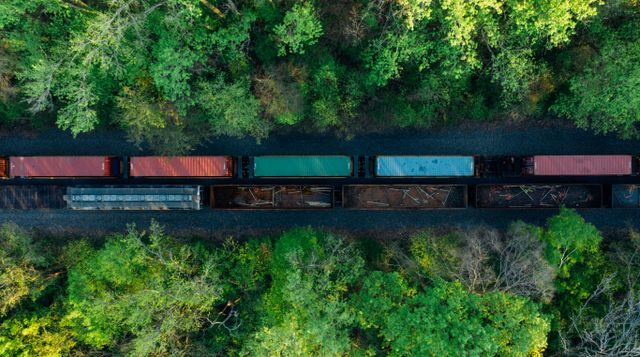
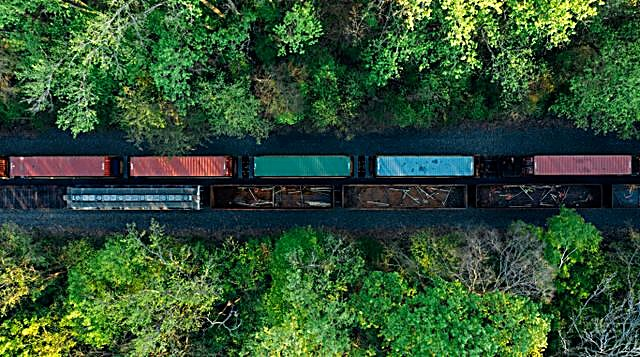
fix: 철송 사진 선명도 보정 (언샤프마스크 적용) — 원본 해상도 한계는 존재

diff --git a/ceo.html b/ceo.html
@@ -28,7 +28,7 @@
   <meta name="twitter:title" content="대표 인사말 - (주)태인종합물류" />
   <meta name="twitter:description" content="(주)태인종합물류 대표 인사말. 30년간 축적한 물류 노하우와 신뢰를 바탕으로 고객의 성공을 함께 만들어가는 종합물류 파트너입니다." />
   <meta name="twitter:image" content="https://www.taein.io.kr/assets/og-image.jpg" />
-  <link rel="stylesheet" href="style.css?v=80" />
+  <link rel="stylesheet" href="style.css?v=81" />
   <link rel="preconnect" href="https://fonts.googleapis.com" />
   <link rel="preconnect" href="https://fonts.gstatic.com" crossorigin />
   <link rel="stylesheet" as="style" crossorigin href="https://cdn.jsdelivr.net/gh/orioncactus/pretendard@v1.3.9/dist/web/static/pretendard-dynamic-subset.min.css" />

diff --git a/sea-transport.html b/sea-transport.html
@@ -28,7 +28,7 @@
   <meta name="twitter:title" content="해상운송 - (주)태인종합물류" />
   <meta name="twitter:description" content="(주)태인종합물류 해상운송 서비스. FCL·LCL 컨테이너 운송, 전 세계 주요 항구 네트워크, 최적 스케줄과 경쟁력 있는 운임을 제공합니다." />
   <meta name="twitter:image" content="https://www.taein.io.kr/assets/og-image.jpg" />
-  <link rel="stylesheet" href="style.css?v=80" />
+  <link rel="stylesheet" href="style.css?v=81" />
   <link rel="preconnect" href="https://fonts.googleapis.com" />
   <link rel="preconnect" href="https://fonts.gstatic.com" crossorigin />
   <link rel="stylesheet" as="style" crossorigin href="https://cdn.jsdelivr.net/gh/orioncactus/pretendard@v1.3.9/dist/web/static/pretendard-dynamic-subset.min.css" />

diff --git a/air-transport.html b/air-transport.html
@@ -28,7 +28,7 @@
   <meta name="twitter:title" content="항공운송 - (주)태인종합물류" />
   <meta name="twitter:description" content="(주)태인종합물류 항공운송 서비스. 일반 항공화물부터 긴급·특수화물까지 신속하고 안전한 글로벌 항공 물류를 지원합니다." />
   <meta name="twitter:image" content="https://www.taein.io.kr/assets/og-image.jpg" />
-  <link rel="stylesheet" href="style.css?v=80" />
+  <link rel="stylesheet" href="style.css?v=81" />
   <link rel="preconnect" href="https://fonts.googleapis.com" />
   <link rel="preconnect" href="https://fonts.gstatic.com" crossorigin />
   <link rel="stylesheet" as="style" crossorigin href="https://cdn.jsdelivr.net/gh/orioncactus/pretendard@v1.3.9/dist/web/static/pretendard-dynamic-subset.min.css" />

diff --git a/land-transport.html b/land-transport.html
@@ -28,7 +28,7 @@
   <meta name="twitter:title" content="육상운송 - (주)태인종합물류" />
   <meta name="twitter:description" content="(주)태인종합물류 육상운송 서비스. 전국 배송 네트워크와 컨테이너 내륙운송으로 안전하고 정확한 국내 물류를 책임집니다." />
   <meta name="twitter:image" content="https://www.taein.io.kr/assets/og-image.jpg" />
-  <link rel="stylesheet" href="style.css?v=80" />
+  <link rel="stylesheet" href="style.css?v=81" />
   <link rel="preconnect" href="https://fonts.googleapis.com" />
   <link rel="preconnect" href="https://fonts.gstatic.com" crossorigin />
   <link rel="stylesheet" as="style" crossorigin href="https://cdn.jsdelivr.net/gh/orioncactus/pretendard@v1.3.9/dist/web/static/pretendard-dynamic-subset.min.css" />

diff --git a/services.html b/services.html
@@ -28,7 +28,7 @@
   <meta name="twitter:title" content="서비스 안내 - (주)태인종합물류" />
   <meta name="twitter:description" content="(주)태인종합물류 서비스 안내. 해상운송(FCL·LCL), 항공운송, 통관, 육상운송, 3PL 물류 솔루션까지 원스톱으로 제공합니다." />
   <meta name="twitter:image" content="https://www.taein.io.kr/assets/og-image.jpg" />
-  <link rel="stylesheet" href="style.css?v=80" />
+  <link rel="stylesheet" href="style.css?v=81" />
   <link rel="preconnect" href="https://fonts.googleapis.com" />
   <link rel="preconnect" href="https://fonts.gstatic.com" crossorigin />
   <link rel="stylesheet" as="style" crossorigin href="https://cdn.jsdelivr.net/gh/orioncactus/pretendard@v1.3.9/dist/web/static/pretendard-dynamic-subset.min.css" />

diff --git a/customs.html b/customs.html
@@ -28,7 +28,7 @@
   <meta name="twitter:title" content="통관 및 포워딩 - (주)태인종합물류" />
   <meta name="twitter:description" content="(주)태인종합물류 통관·포워딩 서비스. 수출입 통관 대행, 관세 컨설팅, FTA 원산지 관리까지 전문 인력이 처리합니다." />
   <meta name="twitter:image" content="https://www.taein.io.kr/assets/og-image.jpg" />
-  <link rel="stylesheet" href="style.css?v=80" />
+  <link rel="stylesheet" href="style.css?v=81" />
   <link rel="preconnect" href="https://fonts.googleapis.com" />
   <link rel="preconnect" href="https://fonts.gstatic.com" crossorigin />
   <link rel="stylesheet" as="style" crossorigin href="https://cdn.jsdelivr.net/gh/orioncactus/pretendard@v1.3.9/dist/web/static/pretendard-dynamic-subset.min.css" />

diff --git a/network.html b/network.html
@@ -28,7 +28,7 @@
   <meta name="twitter:title" content="글로벌 네트워크 - (주)태인종합물류" />
   <meta name="twitter:description" content="(주)태인종합물류 글로벌 네트워크. 150개국 파트너망을 통해 전 세계 어디로든 안정적인 물류 서비스를 제공합니다." />
   <meta name="twitter:image" content="https://www.taein.io.kr/assets/og-image.jpg" />
-  <link rel="stylesheet" href="style.css?v=80" />
+  <link rel="stylesheet" href="style.css?v=81" />
   <link rel="preconnect" href="https://fonts.googleapis.com" />
   <link rel="preconnect" href="https://fonts.gstatic.com" crossorigin />
   <link rel="stylesheet" as="style" crossorigin href="https://cdn.jsdelivr.net/gh/orioncactus/pretendard@v1.3.9/dist/web/static/pretendard-dynamic-subset.min.css" />

diff --git a/faq.html b/faq.html
@@ -28,7 +28,7 @@
   <meta name="twitter:title" content="자주 묻는 질문 - (주)태인종합물류" />
   <meta name="twitter:description" content="(주)태인종합물류 자주 묻는 질문. 견적, 통관, 운송 기간, 요금 등 고객이 가장 많이 문의하는 내용을 정리했습니다." />
   <meta name="twitter:image" content="https://www.taein.io.kr/assets/og-image.jpg" />
-  <link rel="stylesheet" href="style.css?v=80" />
+  <link rel="stylesheet" href="style.css?v=81" />
   <link rel="preconnect" href="https://fonts.googleapis.com" />
   <link rel="preconnect" href="https://fonts.gstatic.com" crossorigin />
   <link rel="stylesheet" as="style" crossorigin href="https://cdn.jsdelivr.net/gh/orioncactus/pretendard@v1.3.9/dist/web/static/pretendard-dynamic-subset.min.css" />

diff --git a/customer-service.html b/customer-service.html
@@ -28,7 +28,7 @@
   <meta name="twitter:title" content="고객센터 - (주)태인종합물류" />
   <meta name="twitter:description" content="(주)태인종합물류 고객센터. 견적 문의, 상담 신청, 운송 관련 문의를 접수합니다. 전문 상담원이 신속히 답변드립니다." />
   <meta name="twitter:image" content="https://www.taein.io.kr/assets/og-image.jpg" />
-  <link rel="stylesheet" href="style.css?v=80" />
+  <link rel="stylesheet" href="style.css?v=81" />
   <link rel="preconnect" href="https://fonts.googleapis.com" />
   <link rel="preconnect" href="https://fonts.gstatic.com" crossorigin />
   <link rel="stylesheet" as="style" crossorigin href="https://cdn.jsdelivr.net/gh/orioncactus/pretendard@v1.3.9/dist/web/static/pretendard-dynamic-subset.min.css" />

diff --git a/philosophy.html b/philosophy.html
@@ -28,7 +28,7 @@
   <meta name="twitter:title" content="경영이념 - (주)태인종합물류" />
   <meta name="twitter:description" content="(주)태인종합물류의 경영이념과 핵심가치. 신뢰·전문성·혁신을 바탕으로 고객 중심의 물류 서비스를 실현합니다." />
   <meta name="twitter:image" content="https://www.taein.io.kr/assets/og-image.jpg" />
-  <link rel="stylesheet" href="style.css?v=80" />
+  <link rel="stylesheet" href="style.css?v=81" />
   <link rel="preconnect" href="https://fonts.googleapis.com" />
   <link rel="preconnect" href="https://fonts.gstatic.com" crossorigin />
   <link rel="stylesheet" as="style" crossorigin href="https://cdn.jsdelivr.net/gh/orioncactus/pretendard@v1.3.9/dist/web/static/pretendard-dynamic-subset.min.css" />

diff --git a/logistics-solutions.html b/logistics-solutions.html
@@ -28,7 +28,7 @@
   <meta name="twitter:title" content="물류 솔루션 - (주)태인종합물류" />
   <meta name="twitter:description" content="(주)태인종합물류 물류 솔루션. 3PL·4PL, 창고관리, 재고 최적화 등 고객 맞춤형 통합 물류 서비스를 설계합니다." />
   <meta name="twitter:image" content="https://www.taein.io.kr/assets/og-image.jpg" />
-  <link rel="stylesheet" href="style.css?v=80" />
+  <link rel="stylesheet" href="style.css?v=81" />
   <link rel="preconnect" href="https://fonts.googleapis.com" />
   <link rel="preconnect" href="https://fonts.gstatic.com" crossorigin />
   <link rel="stylesheet" as="style" crossorigin href="https://cdn.jsdelivr.net/gh/orioncactus/pretendard@v1.3.9/dist/web/static/pretendard-dynamic-subset.min.css" />

diff --git a/notice.html b/notice.html
@@ -28,7 +28,7 @@
   <meta name="twitter:title" content="공지사항 - (주)태인종합물류" />
   <meta name="twitter:description" content="(주)태인종합물류 공지사항. 서비스 변경, 요금 안내, 휴무일 등 고객에게 전달드리는 주요 소식을 확인하세요." />
   <meta name="twitter:image" content="https://www.taein.io.kr/assets/og-image.jpg" />
-  <link rel="stylesheet" href="style.css?v=80" />
+  <link rel="stylesheet" href="style.css?v=81" />
   <link rel="preconnect" href="https://fonts.googleapis.com" />
   <link rel="preconnect" href="https://fonts.gstatic.com" crossorigin />
   <link rel="stylesheet" as="style" crossorigin href="https://cdn.jsdelivr.net/gh/orioncactus/pretendard@v1.3.9/dist/web/static/pretendard-dynamic-subset.min.css" />
